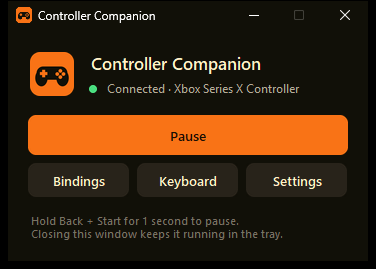
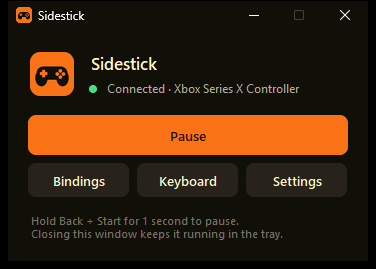
Rename project to Sidestick
Controller Companion → Sidestick in all names, titles, docs and build
files; package controller_companion → sidestick. Name change only.

Changed region(s): [[0.234, 0.2082, 0.7021, 0.2677], [0.0878, 0.0297, 0.4096, 0.0892]]

diff --git a/sidestick/app.py b/sidestick/app.py
@@ -20,7 +20,7 @@ from . import __version__
 from . import config as C
 from . import win32
 
-log = logging.getLogger("controller_companion")
+log = logging.getLogger("sidestick")
 
 
 class App:
@@ -201,7 +201,7 @@ def setup_logging():
 
 
 def main(argv=None):
-    parser = argparse.ArgumentParser(prog="controller_companion",
+    parser = argparse.ArgumentParser(prog="sidestick",
                                      description="Use an Xbox controller as a mouse and keyboard.")
     parser.add_argument("--minimized", action="store_true", help="start hidden in the tray")
     parser.add_argument("--elevated-restart", action="store_true", help=argparse.SUPPRESS)
@@ -209,13 +209,13 @@ def main(argv=None):
     args = parser.parse_args(argv)
 
     setup_logging()
-    log.info("Controller Companion %s starting (admin=%s)", __version__, win32.is_admin())
+    log.info("Sidestick %s starting (admin=%s)", __version__, win32.is_admin())
     win32.set_dpi_aware()
     win32.set_app_id(f"{C.APP_ID}.{__version__}")
 
     instance = win32.SingleInstance(C.APP_ID)
     if not instance.acquire(wait=5.0 if args.elevated_restart else 0.0):
-        win32.message_box("Controller Companion is already running.\n\n"
+        win32.message_box("Sidestick is already running.\n\n"
                           "Look for its icon in the system tray.", C.APP_NAME)
         return 1
 
@@ -233,7 +233,7 @@ def main(argv=None):
         return app.run()
     except Exception:
         log.exception("Fatal error")
-        win32.message_box("Controller Companion hit an unexpected error and closed.\n\n"
+        win32.message_box("Sidestick hit an unexpected error and closed.\n\n"
                           f"Details are in:\n{os.path.join(C.config_dir(), 'log.txt')}",
                           C.APP_NAME)
         return 1

diff --git a/sidestick/config.py b/sidestick/config.py
@@ -7,8 +7,8 @@ from dataclasses import asdict, dataclass, fields, replace
 
 log = logging.getLogger(__name__)
 
-APP_NAME = "Controller Companion"
-APP_ID   = "ControllerCompanion"
+APP_NAME = "Sidestick"
+APP_ID   = "Sidestick"
 
 # ═══════════════════════════════════════════════════════════════════════════
 #  TIMING / FEEL

diff --git a/sidestick/ui/tray.py b/sidestick/ui/tray.py
@@ -28,7 +28,7 @@ class Tray:
 
         Item = pystray.MenuItem
         menu = pystray.Menu(
-            Item("Show Controller Companion", cmd("show"), default=True),
+            Item("Show Sidestick", cmd("show"), default=True),
             Item(lambda item: "Resume" if self.paused else "Pause", cmd("pause")),
             pystray.Menu.SEPARATOR,
             Item("Bindings overlay",   cmd("overlay")),

diff --git a/sidestick/win32.py b/sidestick/win32.py
@@ -144,7 +144,7 @@ def launch_command(extra_args=()):
     pythonw = os.path.join(os.path.dirname(exe), "pythonw.exe")
     if os.path.exists(pythonw):
         exe = pythonw
-    return exe, [os.path.join(root, "ControllerCompanion.pyw"), *extra_args], root
+    return exe, [os.path.join(root, "Sidestick.pyw"), *extra_args], root
 
 
 def relaunch_as_admin(extra_args=()):

diff --git a/sidestick/ui/settings.py b/sidestick/ui/settings.py
@@ -60,7 +60,7 @@ class SettingsWindow:
 
         self.win = tk.Toplevel(root)
         self.win.withdraw()
-        self.win.title("Settings: Controller Companion")
+        self.win.title("Settings: Sidestick")
         self.win.configure(bg=T.BG)
         self.win.resizable(False, False)
         self.win.protocol("WM_DELETE_WINDOW", self.hide)

diff --git a/sidestick/ui/overlay.py b/sidestick/ui/overlay.py
@@ -52,7 +52,7 @@ BINDINGS = (
 class Overlay(FloatingWindow):
 
     def __init__(self, root):
-        super().__init__(root, "Controller Companion: Bindings")
+        super().__init__(root, "Sidestick: Bindings")
         cv = tk.Canvas(self.win, bg=T.BG, highlightthickness=0, bd=0)
         cv.pack()
         self._draw(cv)

diff --git a/tests/test_mapper.py b/tests/test_mapper.py
@@ -1,8 +1,8 @@
 import pytest
 
-from controller_companion import config as C
-from controller_companion.config import Settings
-from controller_companion.mapper import Mapper, PadState
+from sidestick import config as C
+from sidestick.config import Settings
+from sidestick.mapper import Mapper, PadState
 
 
 class FakeOutput:

diff --git a/tests/test_layout_config.py b/tests/test_layout_config.py
@@ -1,7 +1,7 @@
 import json
 
-from controller_companion import config
-from controller_companion.layout import ROWS, KeyboardModel, key_text
+from sidestick import config
+from sidestick.layout import ROWS, KeyboardModel, key_text
 
 
 def test_rows_are_equal_width():

diff --git a/sidestick/__init__.py b/sidestick/__init__.py
@@ -1,0 +1,3 @@
+"""Sidestick: use an Xbox controller as a mouse and keyboard on Windows."""
+
+__version__ = "2.0.0"
